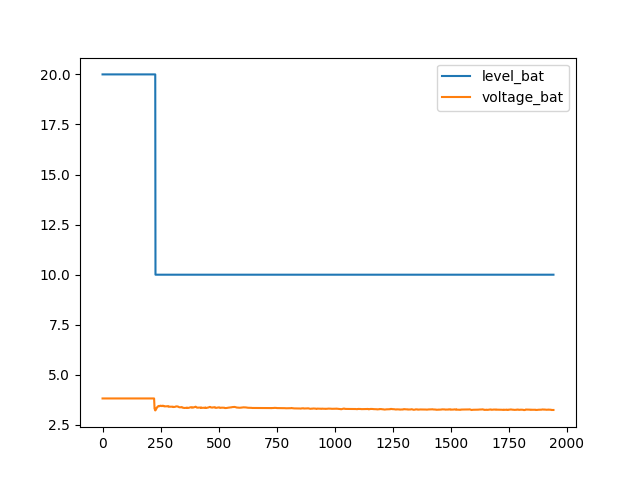
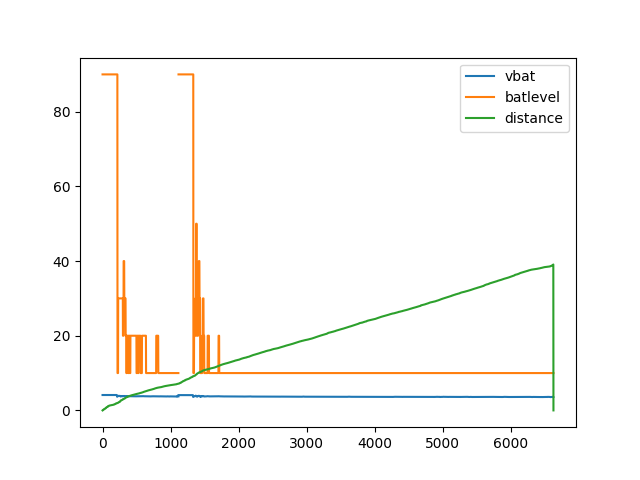
add distance

diff --git a/graph.py b/graph.py
@@ -1,21 +1,48 @@
 import matplotlib.pyplot as plt
 import numpy as np
+import math
 from numpy import genfromtxt
+import pandas as pd
+
+def sumar(ar):
+    dist = 0
+    s = 0
+    for i in ar:
+        if not math.isnan(i):
+            s += i
+            dist = np.append(dist, s)
+    print("complete distance is",s)
+    return dist
 
 data = genfromtxt('data.csv', delimiter=',')
+
 
 x = data[1:,0]
 y = data[1:,1]
 z = data[1:,2]
 vbat = data[1:,3]
 batlevel = data[1:,4]
+r = np.sqrt(np.diff(x)**2 + np.diff(y)**2 + np.diff(z)**2)
+dist = sumar(r)
+dist = np.append(dist, [0,0]) #Dummy variables
+
 t = np.arange(0, x.shape[0])
-plt.plot(t, x, label='x')
-plt.plot(t, y, label='y')
-plt.plot(t, z, label='z')
-plt.plot(t, vbat/1000-3, label='bat_voltage') #chci ukazat jenom zmenu toho
-plt.plot(t, batlevel/100, label='bat_level')
-plt.legend()
-plt.savefig('plot.png')
+
+#plt.plot(t, vbat/1000, label='vbat')
+#plt.plot(t, batlevel, label='batlevel')
+#plt.plot(t, dist, label='distance')
+#plt.legend()
+#plt.savefig('bat.png')
+
+#plt.plot(x, y)
+#plt.savefig('trace.png')
+
+#plt.plot(t, x, label='x')
+#plt.plot(t, y, label='y')
+#plt.plot(t, z, label='z')
+#plt.plot(t, vbat/1000-3, label='bat_voltage') #chci ukazat jenom zmenu toho
+#plt.plot(t, batlevel/100, label='bat_level')
+#plt.legend()
+#plt.show()
 
 

diff --git a/README.md b/README.md
@@ -8,4 +8,15 @@ bat_level je kompletne useless, chyba v dronu nebo ve firmwaru.
 bat_voltage mi moc uzitecne take neni, protoze mam urcovat spotrebu baterie.
 x,y,z jsou pozice drunu od pocatku, ale vzhledem k tomu, ze dron se otaci na miste po metru
 (nemam tolik prostoru doma), tak se uletena vzdalenost take bude urcovat spatne, protoze vetsinu casu stal na miste.
+<br>
+<br>
+Zavislost uletene vzdalenosti na baterii
+<br>
+![fig2](bat.png)
+<br>
+<br>
+a tady jeste zobrazena trasa ve 2d ze shora
+<br>
+![fig3](trace.png)
+
 
